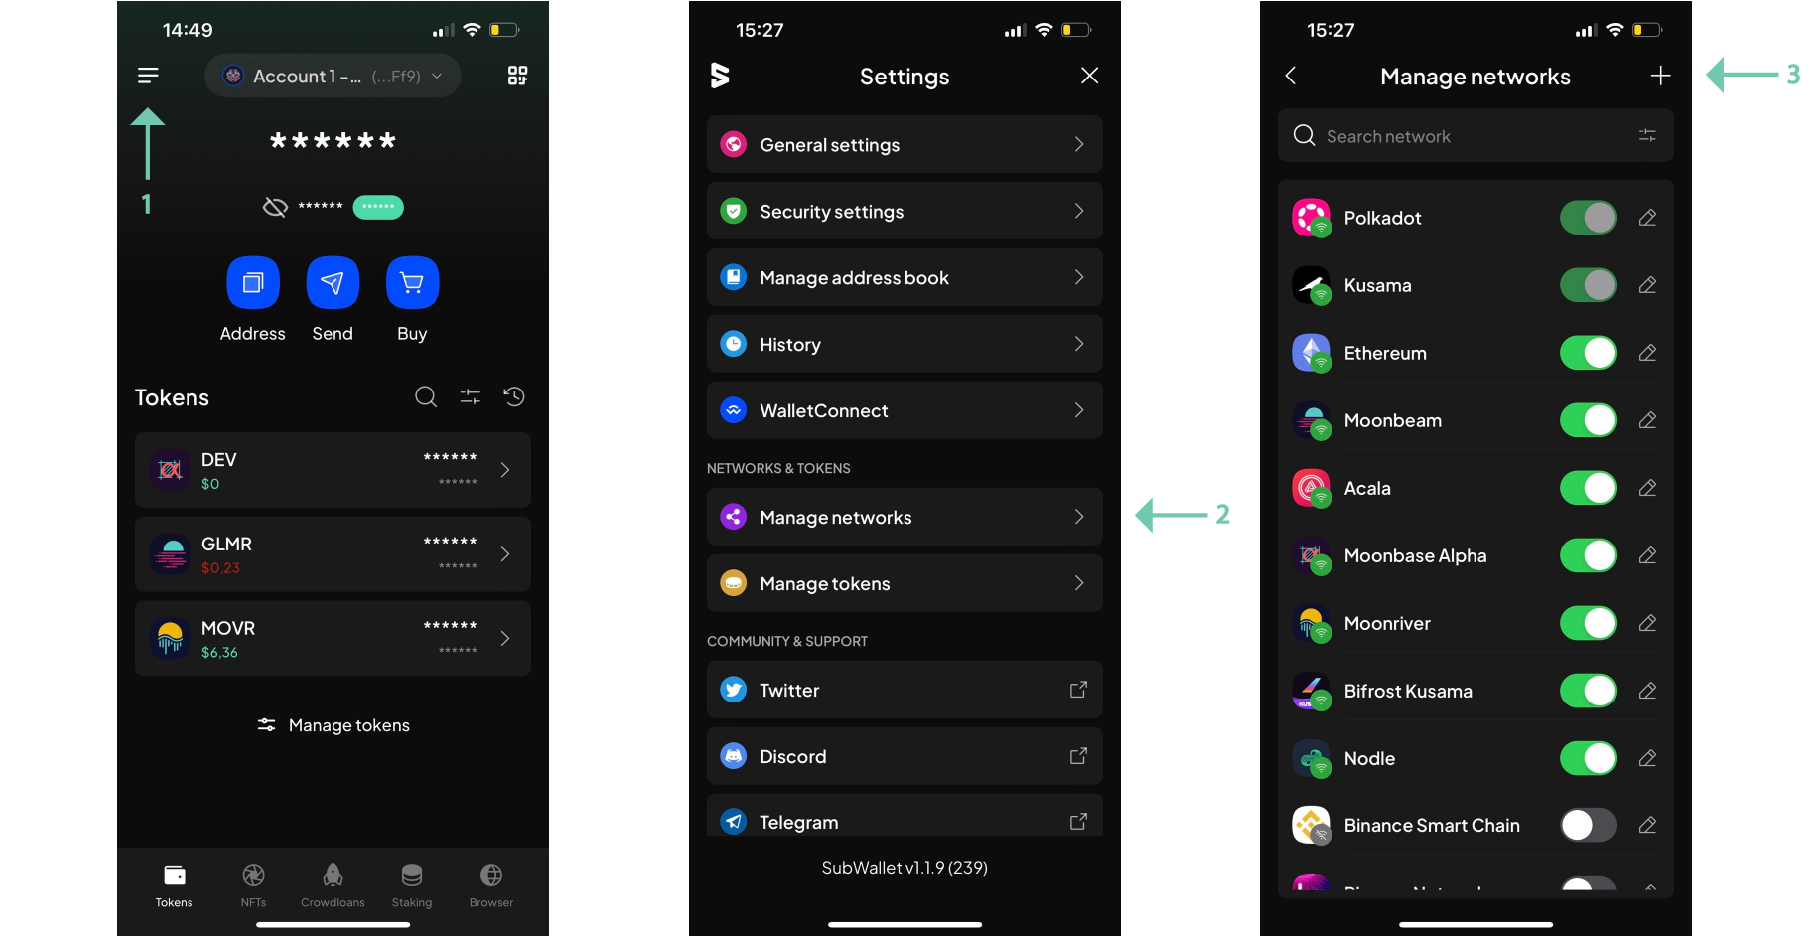
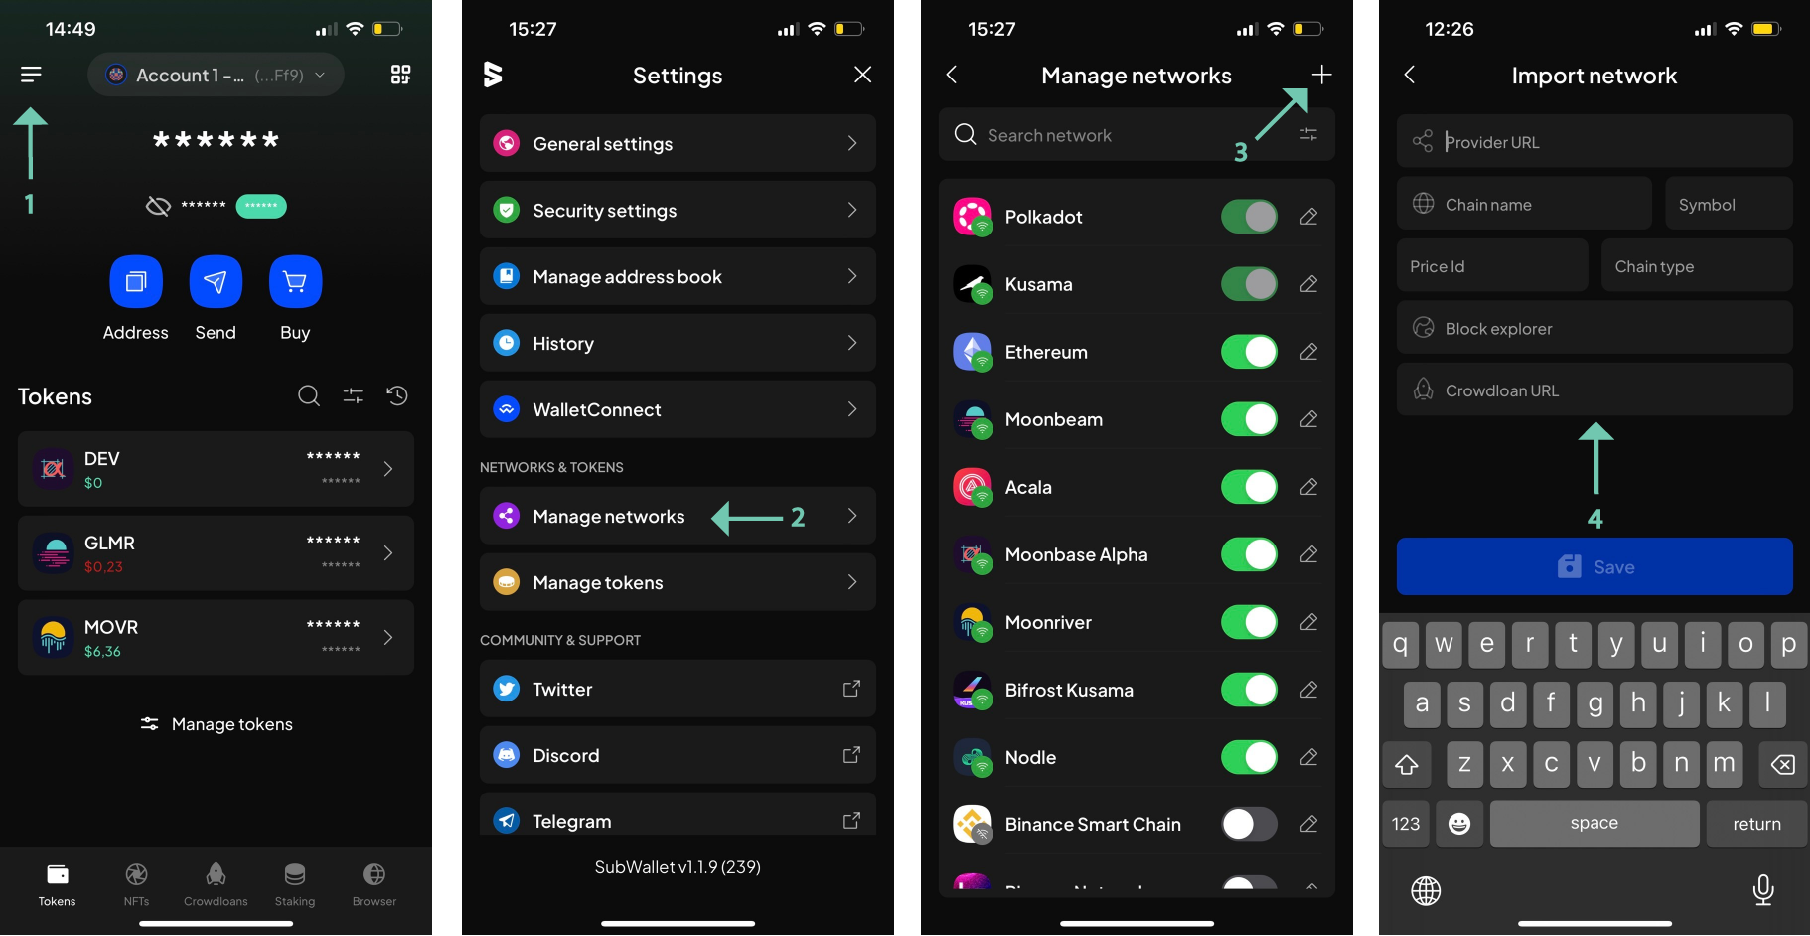
Fix ledger, EVM account, network config

diff --git a/tokens/connect/subwallet.md b/tokens/connect/subwallet.md
@@ -37,7 +37,7 @@ The following sections will provide step-by-step instructions for [creating a ne
 
 #### Create a New Account {: #create-a-new-account-extension }
 
-Creating a new account will generate a seed phrase that can derive multiple Ethereum and Substrate accounts. By default, SubWallet will generate a single Ethereum and a single Substrate account, but you can easily derive more from the same seed phrase. Click **Create a new account** to get started.
+Creating a new account will generate a seed phrase that can derive multiple Ethereum and Substrate accounts. By default, SubWallet will generate a single Ethereum and a single Substrate account, but you can easily derive more from the same seed phrase.To interact with Moonbeam, you will need to use an Ethereum account. Click **Create a new account** to get started.
 
 ![The main screen of the SubWallet browser extension.](/images/tokens/connect/subwallet/subwallet-1.png)
 
@@ -81,7 +81,7 @@ If you select **Import from Polkadot.{js}**, you'll need to make sure that the a
 
 ![Select the import option from the Import account screen of the SubWallet browser extension.](/images/tokens/connect/subwallet/subwallet-6.png)
 
-If you import your account via seed phrase, you'll have to select your account type as either Substrate (Polkadot) or EVM (Ethereum), or both. To interact with Moonbeam, you'll need to choose **Ethereum**.
+If you import your account via seed phrase, you can select your account type as either Substrate (Polkadot) or EVM (Ethereum), or both.
 
 ![Import existing account part 2](/images/tokens/connect/subwallet/subwallet-7.png)
 
@@ -122,9 +122,9 @@ By default, all balances are hidden in SubWallet, but if you press the eye icon,
 
 Once you've [connected SubWallet](#connect-subwallet-to-moonbeam) to any Moonbeam-based network, you can start using your wallet by:
 
+- Receive a token from another address
 - Sending a token transfer to another address
-- Adding ERC-20s to Metamask and interacting with them
-- Adding ERC-721s to Metamask and interacting with them
+- Adding tokens to SubWallet and interact with them
 
 #### Receive a Token {: #receive-a-token-mobile}
 
@@ -156,7 +156,11 @@ To get started with a simple token transfer to another address on Moonbeam, you 
 
 Next, you can take the following steps:
 
-1. Specify the asset to send and the destination chain (in this case, the same chain that you're sending from)
+1. Specify the asset to send and the destination chain. 
+
+    !!! Note 
+        Some tokens are allowed to execute cross-chain transfer, so when choosing the destination network, you can choose the drop-down menu to see the available options.
+
 2. Enter the destination address
 3. Enter the amount of tokens to send
 4. Look over the transaction details, then press **Transfer**
@@ -177,13 +181,13 @@ Once you've downloaded the SubWallet Mobile App, you'll be prompted to set up yo
 
 - **Create a new account** - allows you to create an entirely new account by creating a password and generating a seed phrase
 - **Import an account** - allows you to import an existing account using the seed phrase, JSON file, private key, or by QR code
-- **Attach an account** - allows you to connect to an account without the private key. You can use this method to connect to a cold storage wallet, like [Ledger](/tokens/connect/ledger/){target=_blank}, or a watch-only account. With a watch-only account, you will not be able to transfer funds or interact with your account; you'll only be able to view account balances
+- **Attach an account** - allows you to connect to an account without the private key. You can use this method to connect to a cold storage wallet, like Keystone, or a watch-only account. Ledger support will be coming soon! With a watch-only account, you will not be able to transfer funds or interact with your account; you'll only be able to view account balances. 
 
 The following sections will provide step-by-step instructions for [creating a new account](#create-a-new-account-mobile) and [importing an existing account](#import-an-account-mobile) with SubWallet.
 
 #### Create a New Account {: #create-a-new-account-mobile }
 
-Creating a new account will generate a seed phrase that can derive multiple Ethereum and Substrate accounts. By default, SubWallet will generate a single Ethereum and a single Substrate account, but you can easily derive more from the same seed phrase. Click **Create a new account** to get started.
+Creating a new account will generate a seed phrase that can derive multiple Ethereum and Substrate accounts. By default, SubWallet will generate a single Ethereum and a single Substrate account, but you can easily derive more from the same seed phrase. To interact with Moonbeam, you will need to use an Ethereum account. Click **Create a new account** to get started.
 
 ![The main screen of the SubWallet Mobile App.](/images/tokens/connect/subwallet/subwallet-16.png)
 
@@ -234,7 +238,7 @@ If you select **Import from Polkadot.{js}**, you'll need to make sure that the a
 
 ![Select the import option from the Import account screen of the SubWallet browser extension.](/images/tokens/connect/subwallet/subwallet-22.png)
 
-If you import your account via seed phrase, you'll have to select your account type as either Substrate (Polkadot) or EVM (Ethereum), or both. To interact with Moonbeam, you'll need to choose **Ethereum**.
+If you import your account via seed phrase, you can select your account type as either Substrate (Polkadot) or EVM (Ethereum), or both.
 
 ![Import existing account part 2](/images/tokens/connect/subwallet/subwallet-23.png)
 
@@ -265,7 +269,8 @@ If you're trying to connect to a [local Moonbeam development node](/builders/get
 
 1. Select the hamburger menu from the top left corner, which will take you to the settings page.
 2. On the settings screen, choose **Manage networks**.
-3. Click the **+** icon in the top right corner and enter in the [network configurations](/builders/get-started/quick-start/#network-configurations){target=_blank}.
+3. Click the **+** icon in the top right corner.
+4. Enter in the [network configurations](/builders/get-started/quick-start/#network-configurations){target=_blank}.
 
 ![The tokens screen on the SubWallet browser extension.](/images/tokens/connect/subwallet/subwallet-27.png)
 
@@ -279,9 +284,9 @@ By default, all balances are hidden in SubWallet, but if you press the eye icon,
 
 Once you've [connected SubWallet](#connect-subwallet-to-moonbeam) to any Moonbeam-based network, you can start using your wallet by:
 
+- Receive a token from another address
 - Sending a token transfer to another address
-- Adding ERC-20s to Metamask and interacting with them
-- Adding ERC-721s to Metamask and interacting with them
+- Adding tokens to SubWallet and interact with them
 
 #### Receive a Token {: #receive-a-token-mobile}
 
@@ -305,7 +310,11 @@ To get started with a simple token transfer to another address on Moonbeam, you 
 
 Next, you can take the following steps:
 
-1. Specify the asset to send and the destination chain (in this case, the same chain that you're sending from)
+1. Specify the asset to send and the destination chain.
+
+    !!! Note 
+        Some tokens are allowed to execute cross-chain transfer, so when choosing the destination network, you can choose the drop-down menu to see the available options.
+
 2. Enter the destination address, which can also be done using the address book or by scanning the recipient's QR code.
 3. Choose **Next**
 4. Enter the amount of tokens to send.
